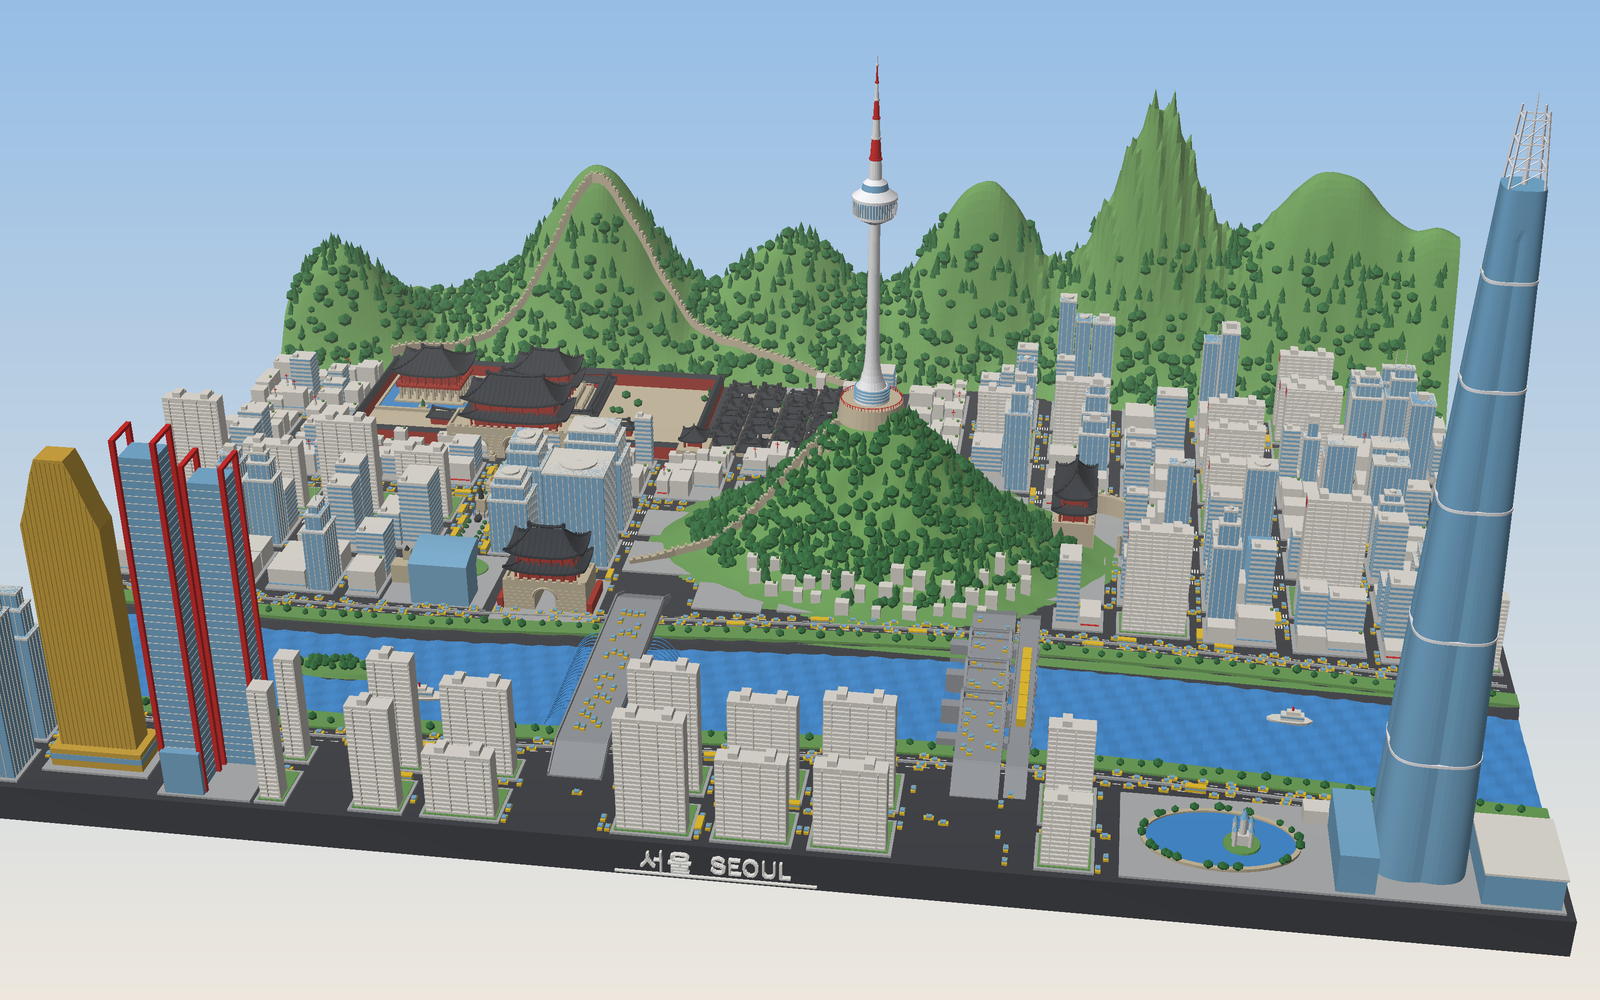
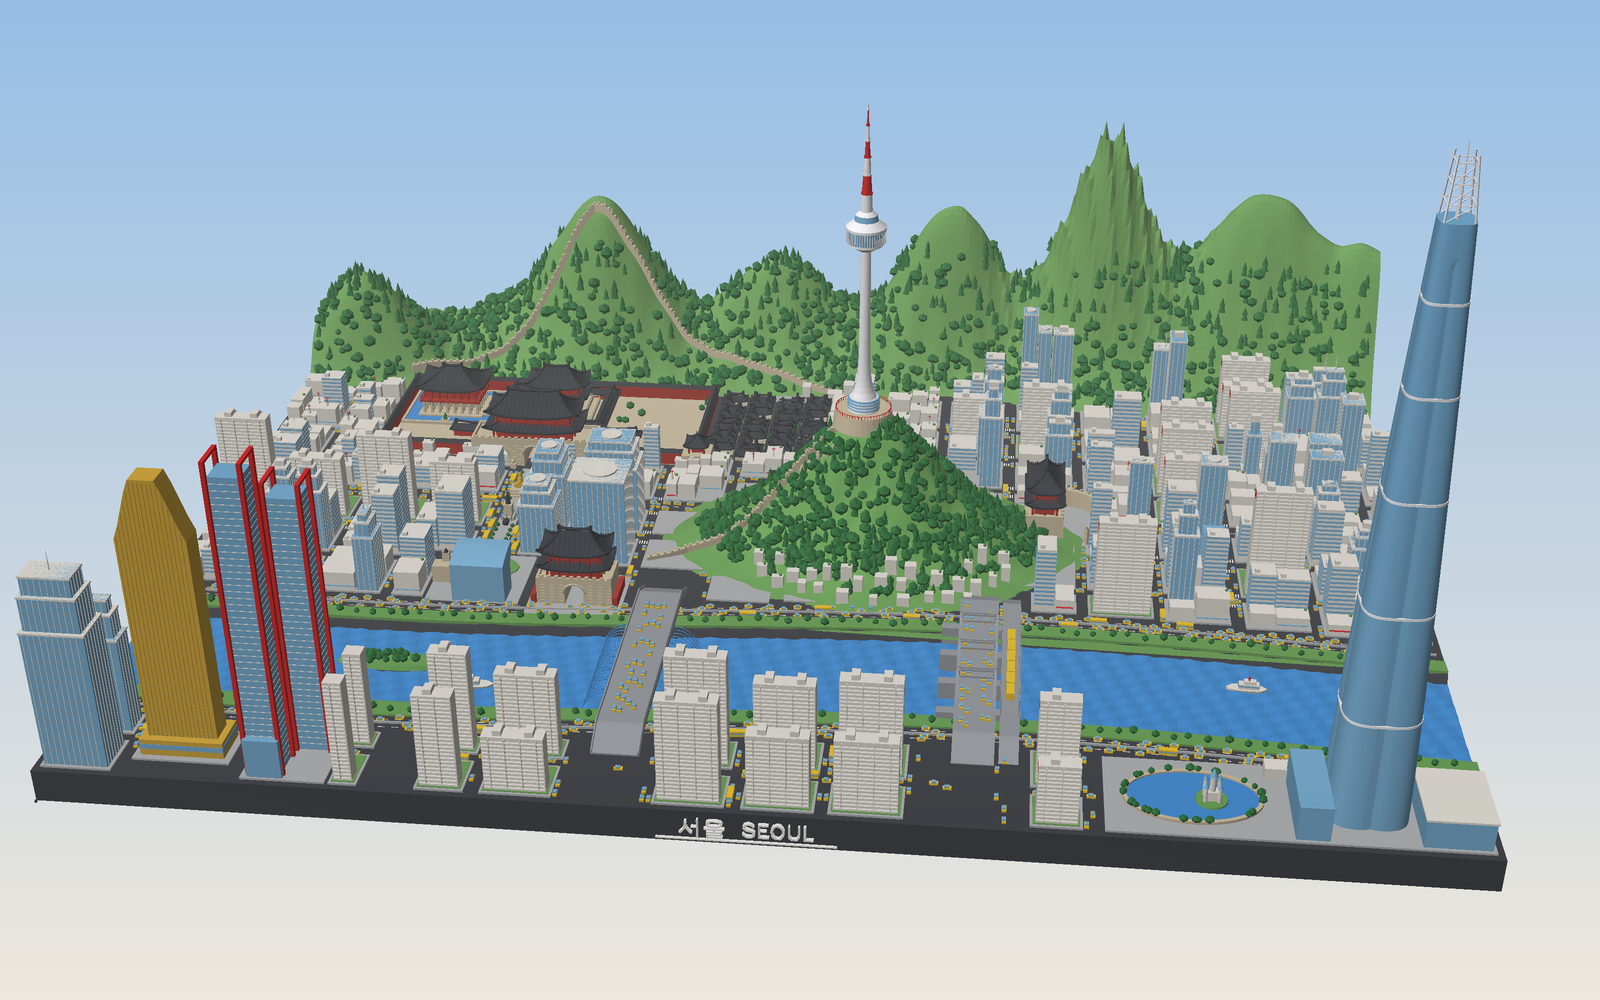
서울 디오라마: 부품 정렬용 큐브, 미리보기 4장 갱신
Claude-Session: https://claude.ai/code/session_0151ureupke2ATXmtdmKwHdU

diff --git a/tinkercad/render_preview.py b/tinkercad/render_preview.py
@@ -121,7 +121,7 @@ def main():
         'preview.png': dict(eye=(30, -300, 175), target=(0, -2, 14), fov=42),
         'preview_palace.png': dict(eye=(-30, -40, 55), target=(-52, 36, 7), fov=38),
         'preview_namsan.png': dict(eye=(55, -70, 70), target=(12, 0, 30), fov=42),
-        'preview_river.png': dict(eye=(-75, -105, 32), target=(0, -45, 6), fov=42),
+        'preview_river.png': dict(eye=(8, -47, 17), target=(-22, -36, 5), fov=55),
     }
     only = sys.argv[1:]
     for name, v in views.items():

diff --git a/tinkercad/README.md b/tinkercad/README.md
@@ -5,6 +5,10 @@ Tinkercad에서 바로 불러올 수 있는 **STL** 파일입니다. 단위는 m
 
 ![전체 미리보기](preview.png)
 
+| 경복궁·광화문 | 남산·N서울타워 | 반포대교 달빛무지개분수 |
+| --- | --- | --- |
+| ![경복궁](preview_palace.png) | ![남산](preview_namsan.png) | ![한강](preview_river.png) |
+
 ## 파일
 
 | 파일 | 설명 |
